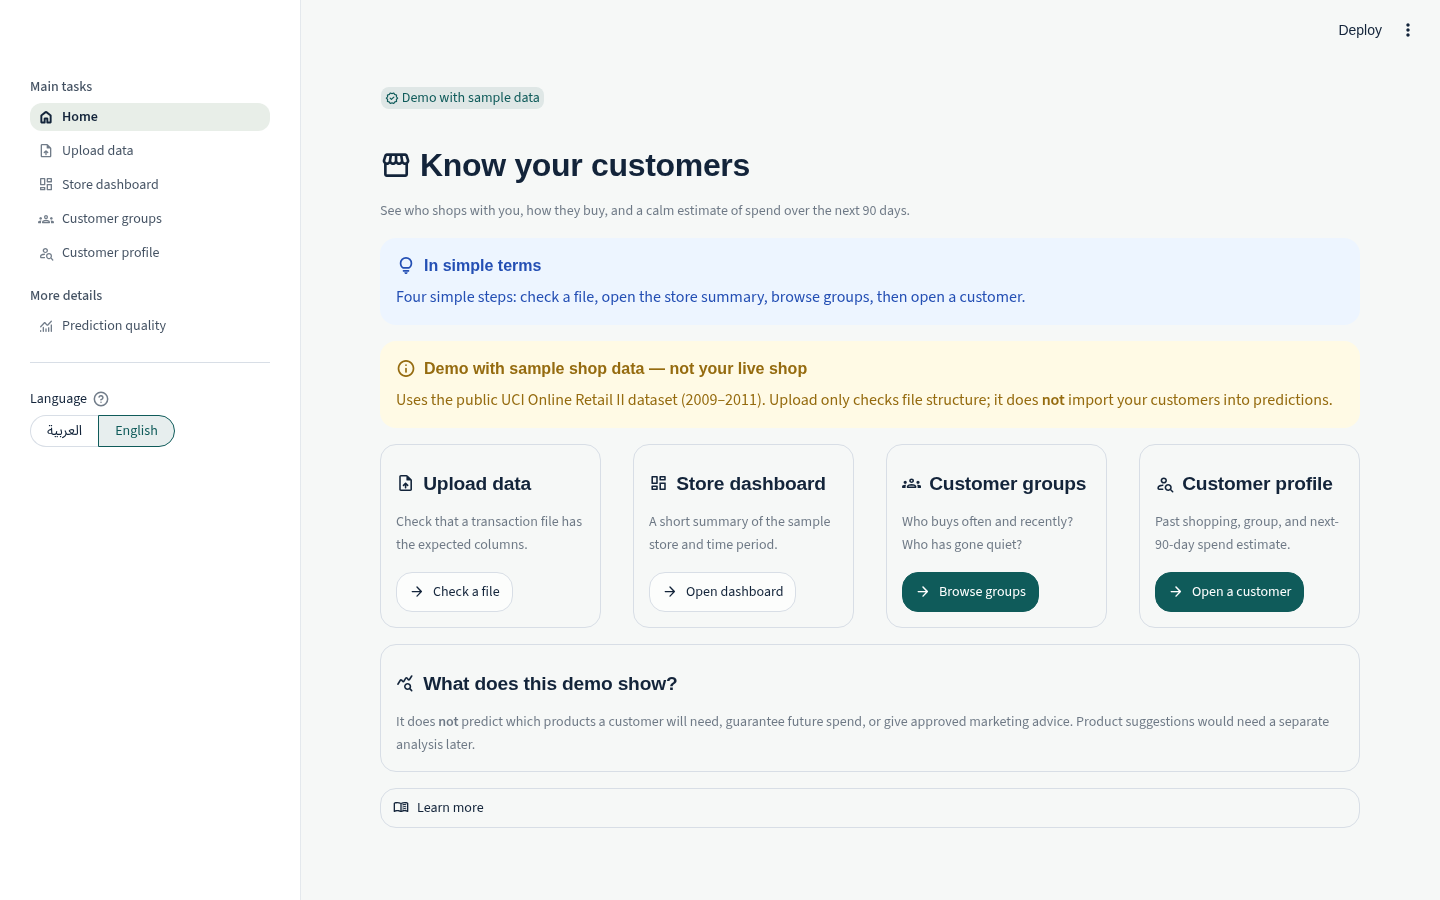
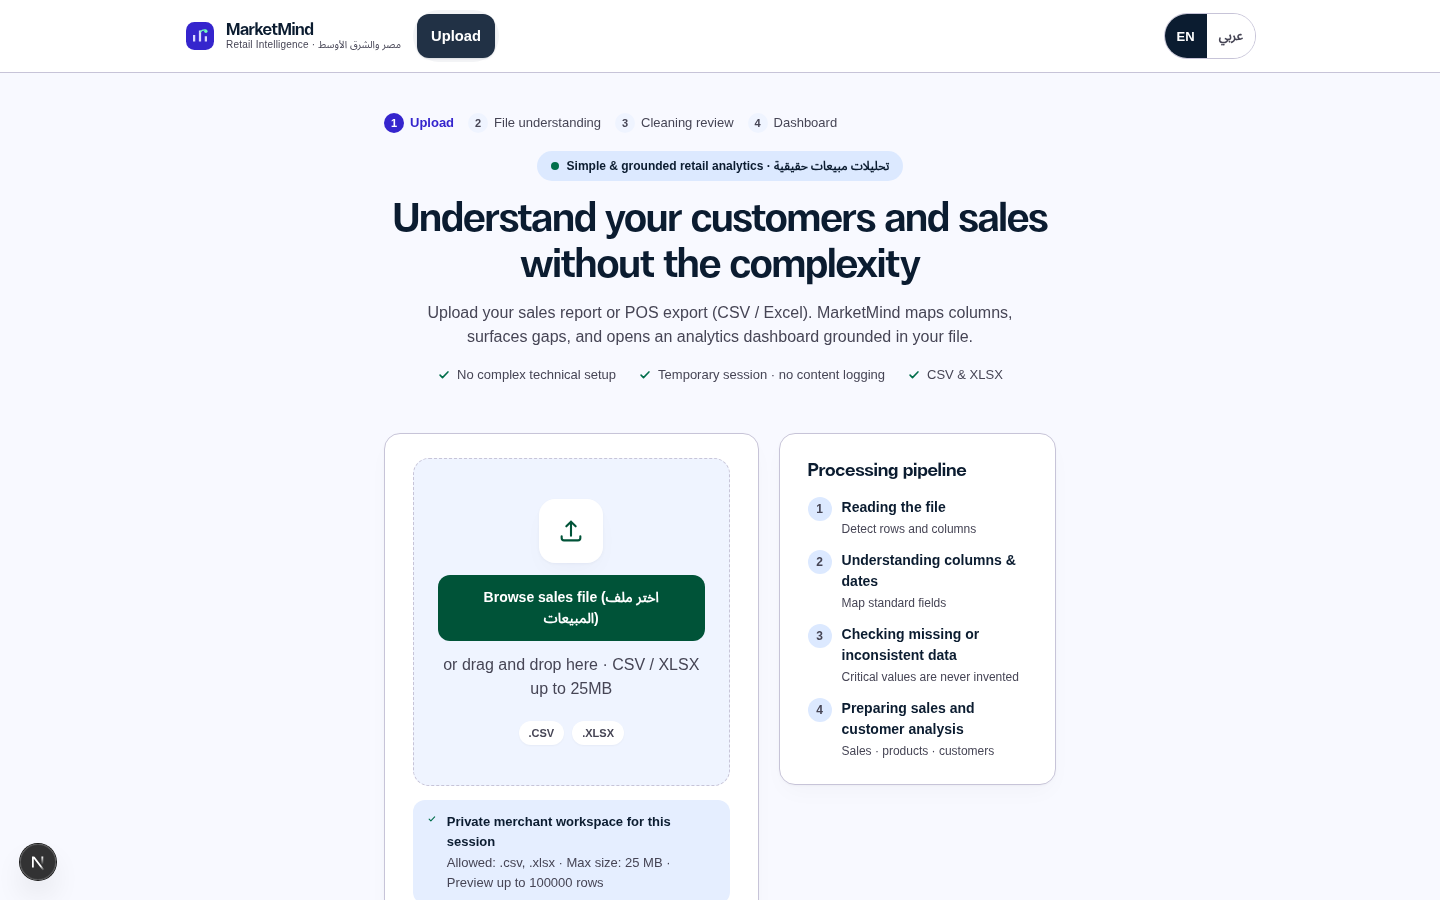
Replace outdated README UI screenshots with current Next product.
Home/upload and store overview captures from :3001 (EN); remove the
old Streamlit “Know your customers” image that was mislabeled as the
product UI. Refresh deploy docs status wording.

diff --git a/README.md b/README.md
@@ -69,11 +69,19 @@ Synthetic fixtures test **behavior only** — not model quality.
 
 The Cloud app reads committed artifacts and the small derived parquet files in `docs/deployment.md`. It does not need `data/raw/online_retail_II.xlsx`. Record a URL in this README only after that URL loads and the six pages are checked.
 
-## Screenshot
+## Screenshots (current product UI)
 
-![MarketMind home (local Next.js demo)](docs/screenshots/home.png)
+Local **Next.js + FastAPI** product (not the academic Streamlit multipage shell). Captured 2026-11-14 from `http://127.0.0.1:3001`.
 
-_Local product UI. Upload journey shots: `docs/screenshots/e2e/`._
+**Upload (entry / home redirects here)**
+
+![MarketMind upload — current product](docs/screenshots/home.png)
+
+**Store overview (demo UK sample)**
+
+![MarketMind store overview — current product](docs/screenshots/overview.png)
+
+Also: `docs/screenshots/upload.png` (same upload surface), `docs/screenshots/products.png`, and browser journey shots under `docs/screenshots/e2e/`.
 
 ## Data source
 

diff --git a/docs/deployment.md b/docs/deployment.md
@@ -1,6 +1,6 @@
 # Streamlit Community Cloud
 
-**Status:** Public deploy of this Streamlit app was approved on 2026-11-11 (D1/D8). **No public URL exists yet.** Do not claim the app is live until a `*.streamlit.app` URL opens and its pages are checked.
+**Status:** Public deploy of this Streamlit app was approved on 2026-11-11 (D1/D8). **No public `*.streamlit.app` URL exists yet** — Community Cloud still needs an interactive login at https://share.streamlit.io (no API token on this machine). Do not claim the app is live until that URL opens and its pages are checked.
 
 **This PDF app is Streamlit only.** Entrypoint: `app.py` at the repository root. The Next.js/FastAPI UI is not the Cloud app.
 

diff --git a/docs/presentation_outline.md b/docs/presentation_outline.md
@@ -14,4 +14,4 @@ Numbers from `artifacts/model_metadata.json` / reports (verified). Live URL: pen
 10. **App** — Streamlit demo: validation, segments, customer lookup, provisional heuristics. URL pending.
 11. **Limitations / next** — Historical data; high zero-target rate; eligible positive spend (not net revenue); provisional heuristic actions only; public deploy not approved.
 
-Screenshot: `docs/screenshots/home.png` (local). GIF optional later.
+Screenshot: `docs/screenshots/home.png` (current Next product upload UI). GIF optional later.
